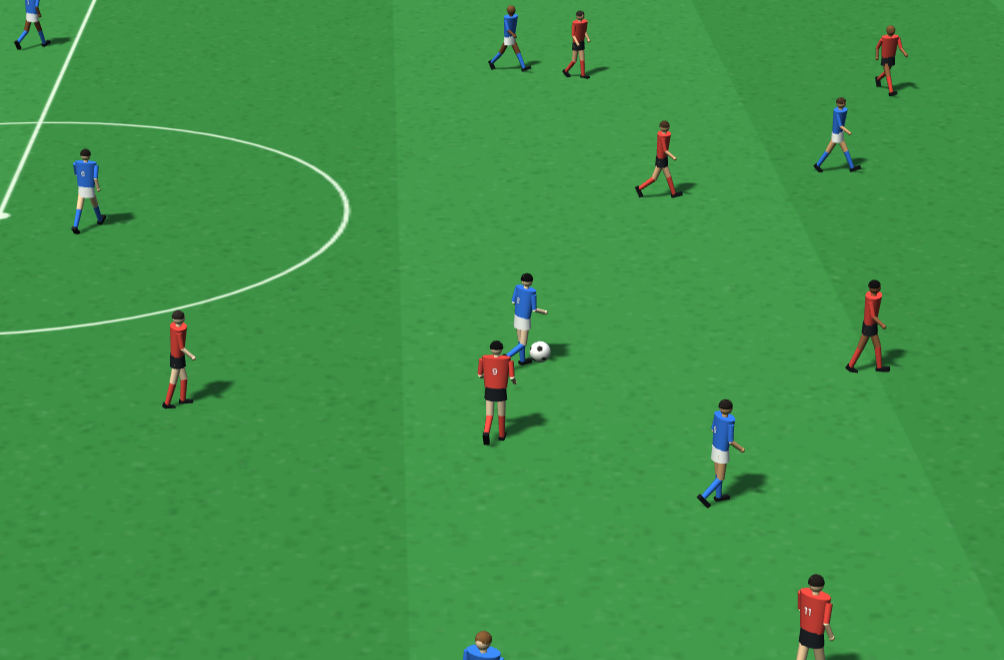
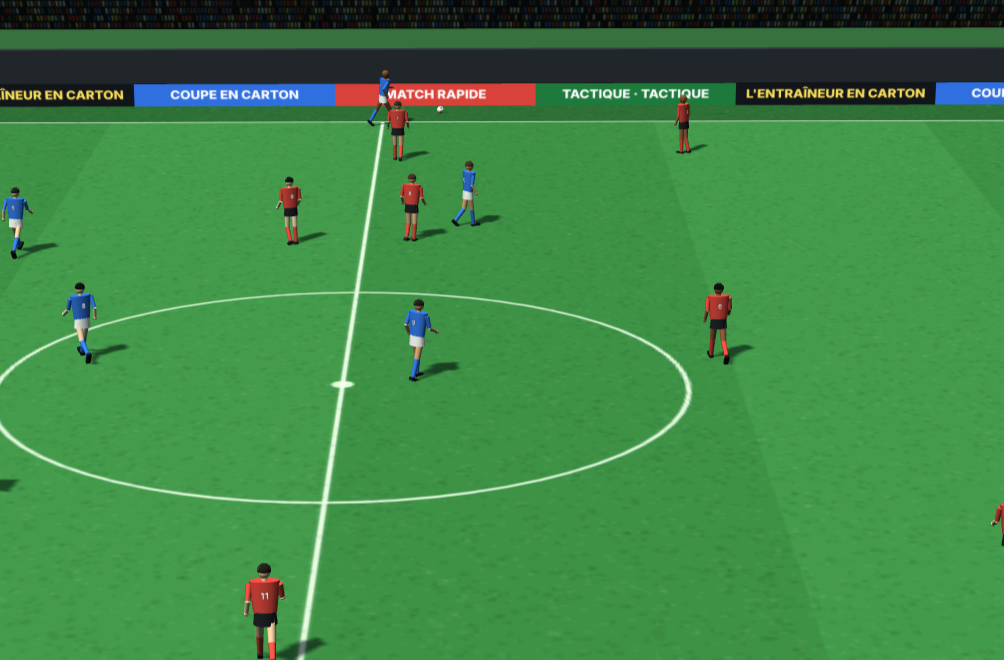
Vue 3D : ballon à sa vraie taille (rayon 0,14 m au lieu de 0,24)
Claude-Session: https://claude.ai/code/session_01JE8fKzMuvQtjsPz4c7PEni

diff --git a/match.html b/match.html
@@ -2574,7 +2574,7 @@ function create(canvas, R2, opt) {
   }
 
   // ballon
-  const BR = 0.24;
+  const BR = 0.14;      // rayon du ballon : 0,11 m en vrai, un peu plus ici comme les joueurs (×1,15)
   const ball = new THREE.Mesh(new THREE.SphereGeometry(BR, 20, 14), std('#ffffff', 0.45, { map: ballTexture() })); ball.castShadow = true; scene.add(ball);
   const ring = new THREE.Mesh(new THREE.RingGeometry(0.75, 0.95, 32), new THREE.MeshBasicMaterial({ color: '#ffe45c', transparent: true, opacity: 0.95, depthWrite: false }));
   ring.rotation.x = -Math.PI / 2; ring.position.y = 0.03; ring.visible = false; scene.add(ring);

diff --git a/render3d.js b/render3d.js
@@ -124,7 +124,7 @@ function create(canvas, R2, opt) {
   }
 
   // ballon
-  const BR = 0.24;
+  const BR = 0.14;      // rayon du ballon : 0,11 m en vrai, un peu plus ici comme les joueurs (×1,15)
   const ball = new THREE.Mesh(new THREE.SphereGeometry(BR, 20, 14), std('#ffffff', 0.45, { map: ballTexture() })); ball.castShadow = true; scene.add(ball);
   const ring = new THREE.Mesh(new THREE.RingGeometry(0.75, 0.95, 32), new THREE.MeshBasicMaterial({ color: '#ffe45c', transparent: true, opacity: 0.95, depthWrite: false }));
   ring.rotation.x = -Math.PI / 2; ring.position.y = 0.03; ring.visible = false; scene.add(ring);

diff --git a/CLAUDE.md b/CLAUDE.md
@@ -728,7 +728,7 @@ Sixième séance (9 octobre 2026) : axe « niveaux », en commençant par la pos
 | 119 | Demande de Frédéric (15 octobre 2026) : après le dosage des notes, la difficulté de la coupe pesait trop peu | Difficulté : 10 points (sur 100) de plus ou de moins sur les notes des adversaires (`DIFF_PTS`, 5 avant), soit 4 points dans le moteur | `tools/coupe.js` sans échec |
 | 120 | Demande de Frédéric (15 octobre 2026) : une vue 3D du match (même moteur, autre rendu), puis des consignes individuelles. Ses choix : la 3D d'abord, caméra télé, bibliothèque 3D chargée depuis internet ; consignes individuelles ensuite (dribbler / jouer simple, monter / rester derrière, tirer de loin plus / moins) | Nouveau fichier `render3d.js` (three.js r128, chargé depuis cdnjs à la première demande) : pelouse reprise du dessin 2D, tribunes, buts avec filets, joueurs en silhouettes simples (maillot, short, tête, jambes et bras qui bougent selon la vitesse, orientés comme dans le moteur), ballon à sa hauteur avec son ombre ; caméra télé en hauteur sur le côté, qui suit le ballon en douceur. Page : boutons « 2D / 3D » à côté des onglets (et dans la colonne du téléphone, plus un bouton flottant menu fermé), choix retenu ; chrono et nom du joueur choisi en surimpression ; clic sur un joueur ; sans internet, message et retour à la vue de dessus. Moteur inchangé | Nouvel outil `tools/vue3d.js` (Chromium : chargement, scène dessinée, clic sur un joueur, onglet Statistiques, retour 2D, choix retenu, téléphone, sans internet) sans échec ; `tools/page.js`, `tools/telephone.js`, `tools/tactique.js` sans échec. Captures `docs/vue-3d.png`, `docs/vue-3d-telephone.png`. **Pas essayé sur un vrai téléphone** |
 | 121 | Demande de Frédéric (15-16 octobre 2026) : des consignes individuelles. Ses choix : « dribbler / jouer simple », « monter / rester derrière », « tirer de loin plus / moins » | Moteur : chaque place porte ses consignes (`p.ord`, `E.setOrders(m, équipe, [11 places])`, `E.ORDERS`) ; un remplaçant qui entre à cette place les reprend. **Avec le ballon** : dribbler, la conduite est plus tentante (`ORD_DRIB`) ; jouer simple, la conduite l'est beaucoup moins et la passe au sol un peu plus (`ORD_SIMPLE`). **Projection** : monter, quand l'équipe a le ballon il se place jusqu'à 9 m plus haut (`ORD_UP`) et fait des appels, même défenseur ou milieu axial ; rester derrière, jusqu'à 6 m plus bas (`ORD_BACK`), presque plus d'appels, et le latéral ne monte plus côté ballon. **Tirs de loin** : plus, le tir de plus de 17 m est jusqu'à 60 % plus tentant (`ORD_SHOT`) et tenté jusqu'à 32 m (28 avant) ; moins, 50 % moins tentant. Fiche du joueur : « Consigne individuelle : dribbler »… Page : dans l'onglet Tactique, la fiche d'un joueur de champ sur le terrain a trois réglages à trois boutons ; repère violet « C » sur le joueur ; « Valider » comme le reste (prochain arrêt de jeu, ligne dans le fil du match). Sans consigne individuelle, matchs identiques au chiffre près | Nouvel outil `tools/ordres.js [place] [matchs]`. Attaquant de pointe (place 10, 20 matchs, par match) : conduites (décisions) 216 neutre → 371 dribbler, 39 jouer simple ; appels 135 → 159 monter, 70 rester derrière ; hauteur avec le ballon 11 → 14 m (monter), 7 m (rester derrière) ; tirs de plus de 20 m 1,2 → 4,2 (plus), 0,1 (moins). Arrière gauche (place 1) : monter, 8 m plus haut et 136 appels (0 au neutre) ; rester derrière, 5 m plus bas. `check.js` donne maintenant aussi des consignes individuelles au hasard : `check.js 30` et `check.js 4 5400` sans anomalie. `tools/tactique.js` (consignes individuelles réglées, repère, validées, gardées, rien pour le gardien), `tools/page.js`, `tools/telephone.js` sans échec ; `tools/telephone.js` rendu plus sûr (il touchait parfois deux fois le même joueur, ce qui le désélectionnait). Capture `docs/consignes-individuelles.png` |
-| 122 | Frédéric (16 octobre 2026) : la 3D marche, mais « pas très jolie », le mouvement des bras et des jambes n'est pas naturel ; il veut « un peu plus réaliste » | `render3d.js` refait : joueurs articulés (cuisses, tibias et pieds avec genoux et chevilles ; bras et avant-bras avec coudes ; buste, cou, tête et cheveux ; short, chaussettes à la couleur de l'équipe, numéro dans le dos) ; **foulée** : la cadence suit la vitesse du joueur dans le match (et plus la vitesse de lecture), genou qui plie au retour de la jambe, pointe tendue à la poussée, bras opposés aux jambes et coudes pliés en courant, rebond, buste penché selon la vitesse ; **décor** : vraies ombres au soleil (elles suivent la caméra), pelouse avec du grain et un vert moins vif, panneaux publicitaires, tribunes en gradins avec toit, projecteurs en face, ciel en dégradé ; ballon à pentagones qui tourne quand il roule ; caméra plus proche (hauteur 21 m). La page donne à la 3D le temps de jeu (`t`) et le mode téléphone (ombres moins fines) | `tools/vue3d.js`, `tools/telephone.js` sans échec ; captures `docs/vue-3d.png`, `docs/vue-3d-telephone.png`. **Pas mesuré sur un vrai téléphone** : les ombres et les corps articulés demandent plus de calcul |
+| 122 | Frédéric (16 octobre 2026) : la 3D marche, mais « pas très jolie », le mouvement des bras et des jambes n'est pas naturel ; il veut « un peu plus réaliste » | `render3d.js` refait : joueurs articulés (cuisses, tibias et pieds avec genoux et chevilles ; bras et avant-bras avec coudes ; buste, cou, tête et cheveux ; short, chaussettes à la couleur de l'équipe, numéro dans le dos) ; **foulée** : la cadence suit la vitesse du joueur dans le match (et plus la vitesse de lecture), genou qui plie au retour de la jambe, pointe tendue à la poussée, bras opposés aux jambes et coudes pliés en courant, rebond, buste penché selon la vitesse ; **décor** : vraies ombres au soleil (elles suivent la caméra), pelouse avec du grain et un vert moins vif, panneaux publicitaires, tribunes en gradins avec toit, projecteurs en face, ciel en dégradé ; ballon à pentagones qui tourne quand il roule, à sa vraie taille à peu près (rayon 0,14 m, 0,24 avant : « trop gros », Frédéric) ; caméra plus proche (hauteur 21 m). La page donne à la 3D le temps de jeu (`t`) et le mode téléphone (ombres moins fines) | `tools/vue3d.js`, `tools/telephone.js` sans échec ; captures `docs/vue-3d.png`, `docs/vue-3d-telephone.png`. **Pas mesuré sur un vrai téléphone** : les ombres et les corps articulés demandent plus de calcul |
 | 58 | Tournoi complet (`node tools/levels.js 60`) | — | Possession de l'équipe forte contre Faible : 56 à 59 %. Entre niveaux voisins : toujours 48 à 52 %. Élite contre Faible : 10,2 à 0,05. Passes réussies : l'équipe forte n'en réussit toujours pas plus que l'autre contre le même adversaire |
 
 | 59 | Demande de Frédéric : l'équipe forte doit garder le ballon. Découverte : le « goût du risque » de Faible (7,8) la rendait plus prudente que l'Élite (13,9) | Prudence et patience dépendent aussi de la lucidité : un joueur lucide sait ce que coûte une passe forcée et attend avant de forcer (rien à 14) | Seul : +1 à 3 points de possession |
